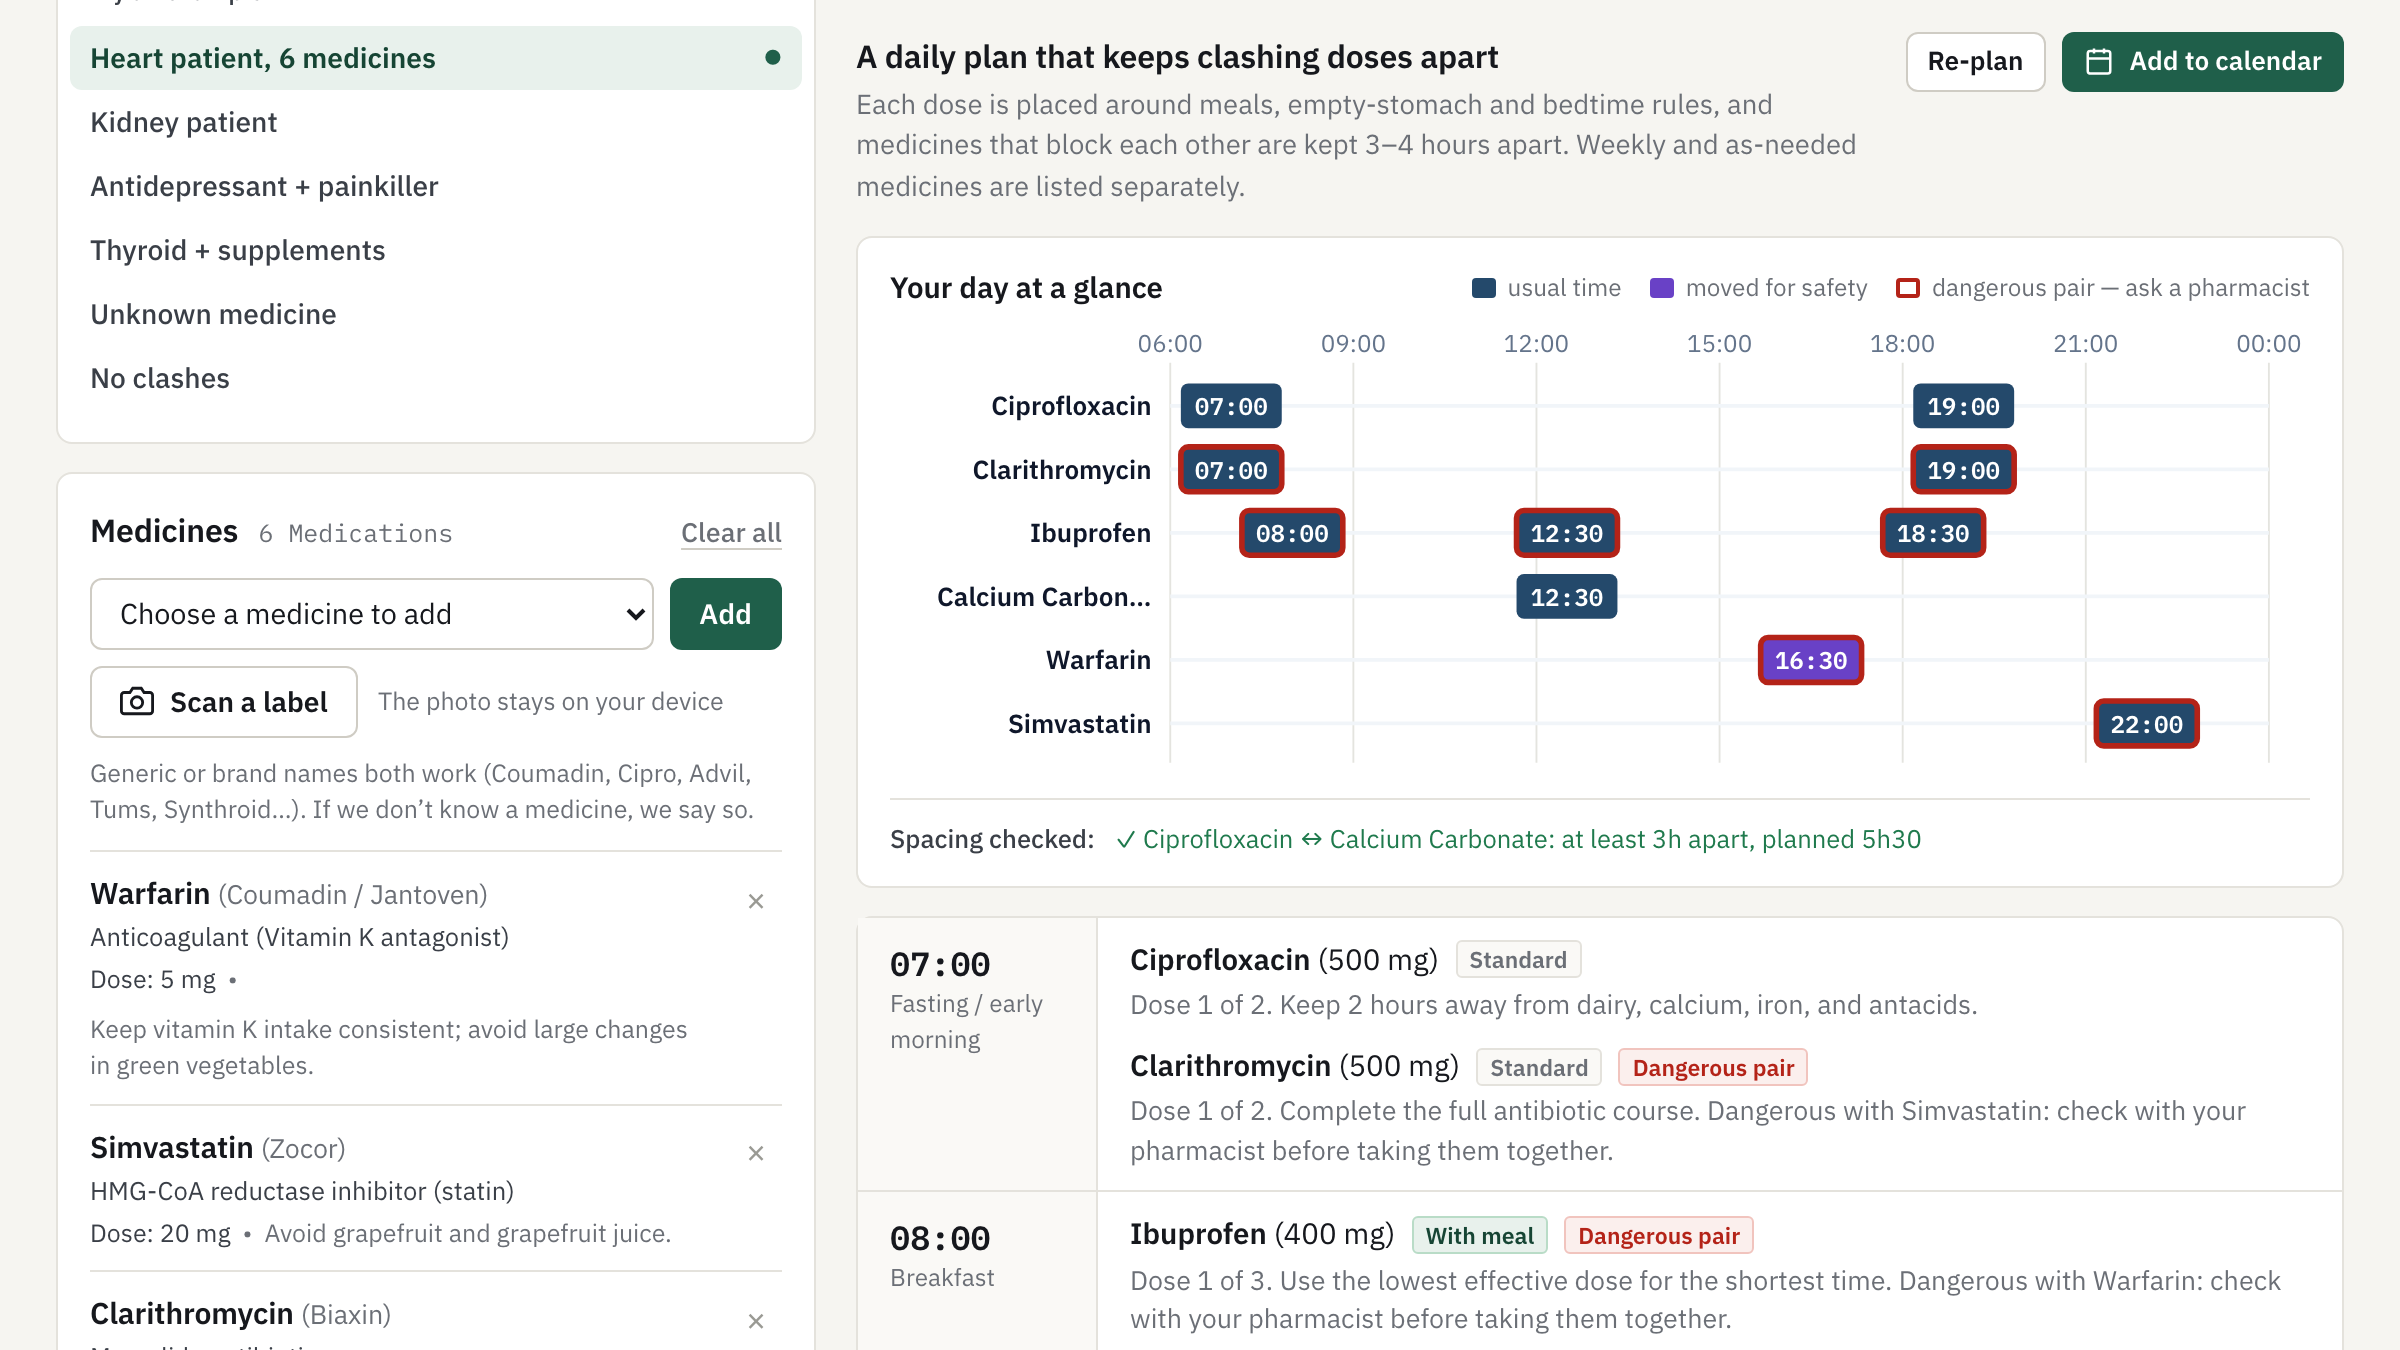
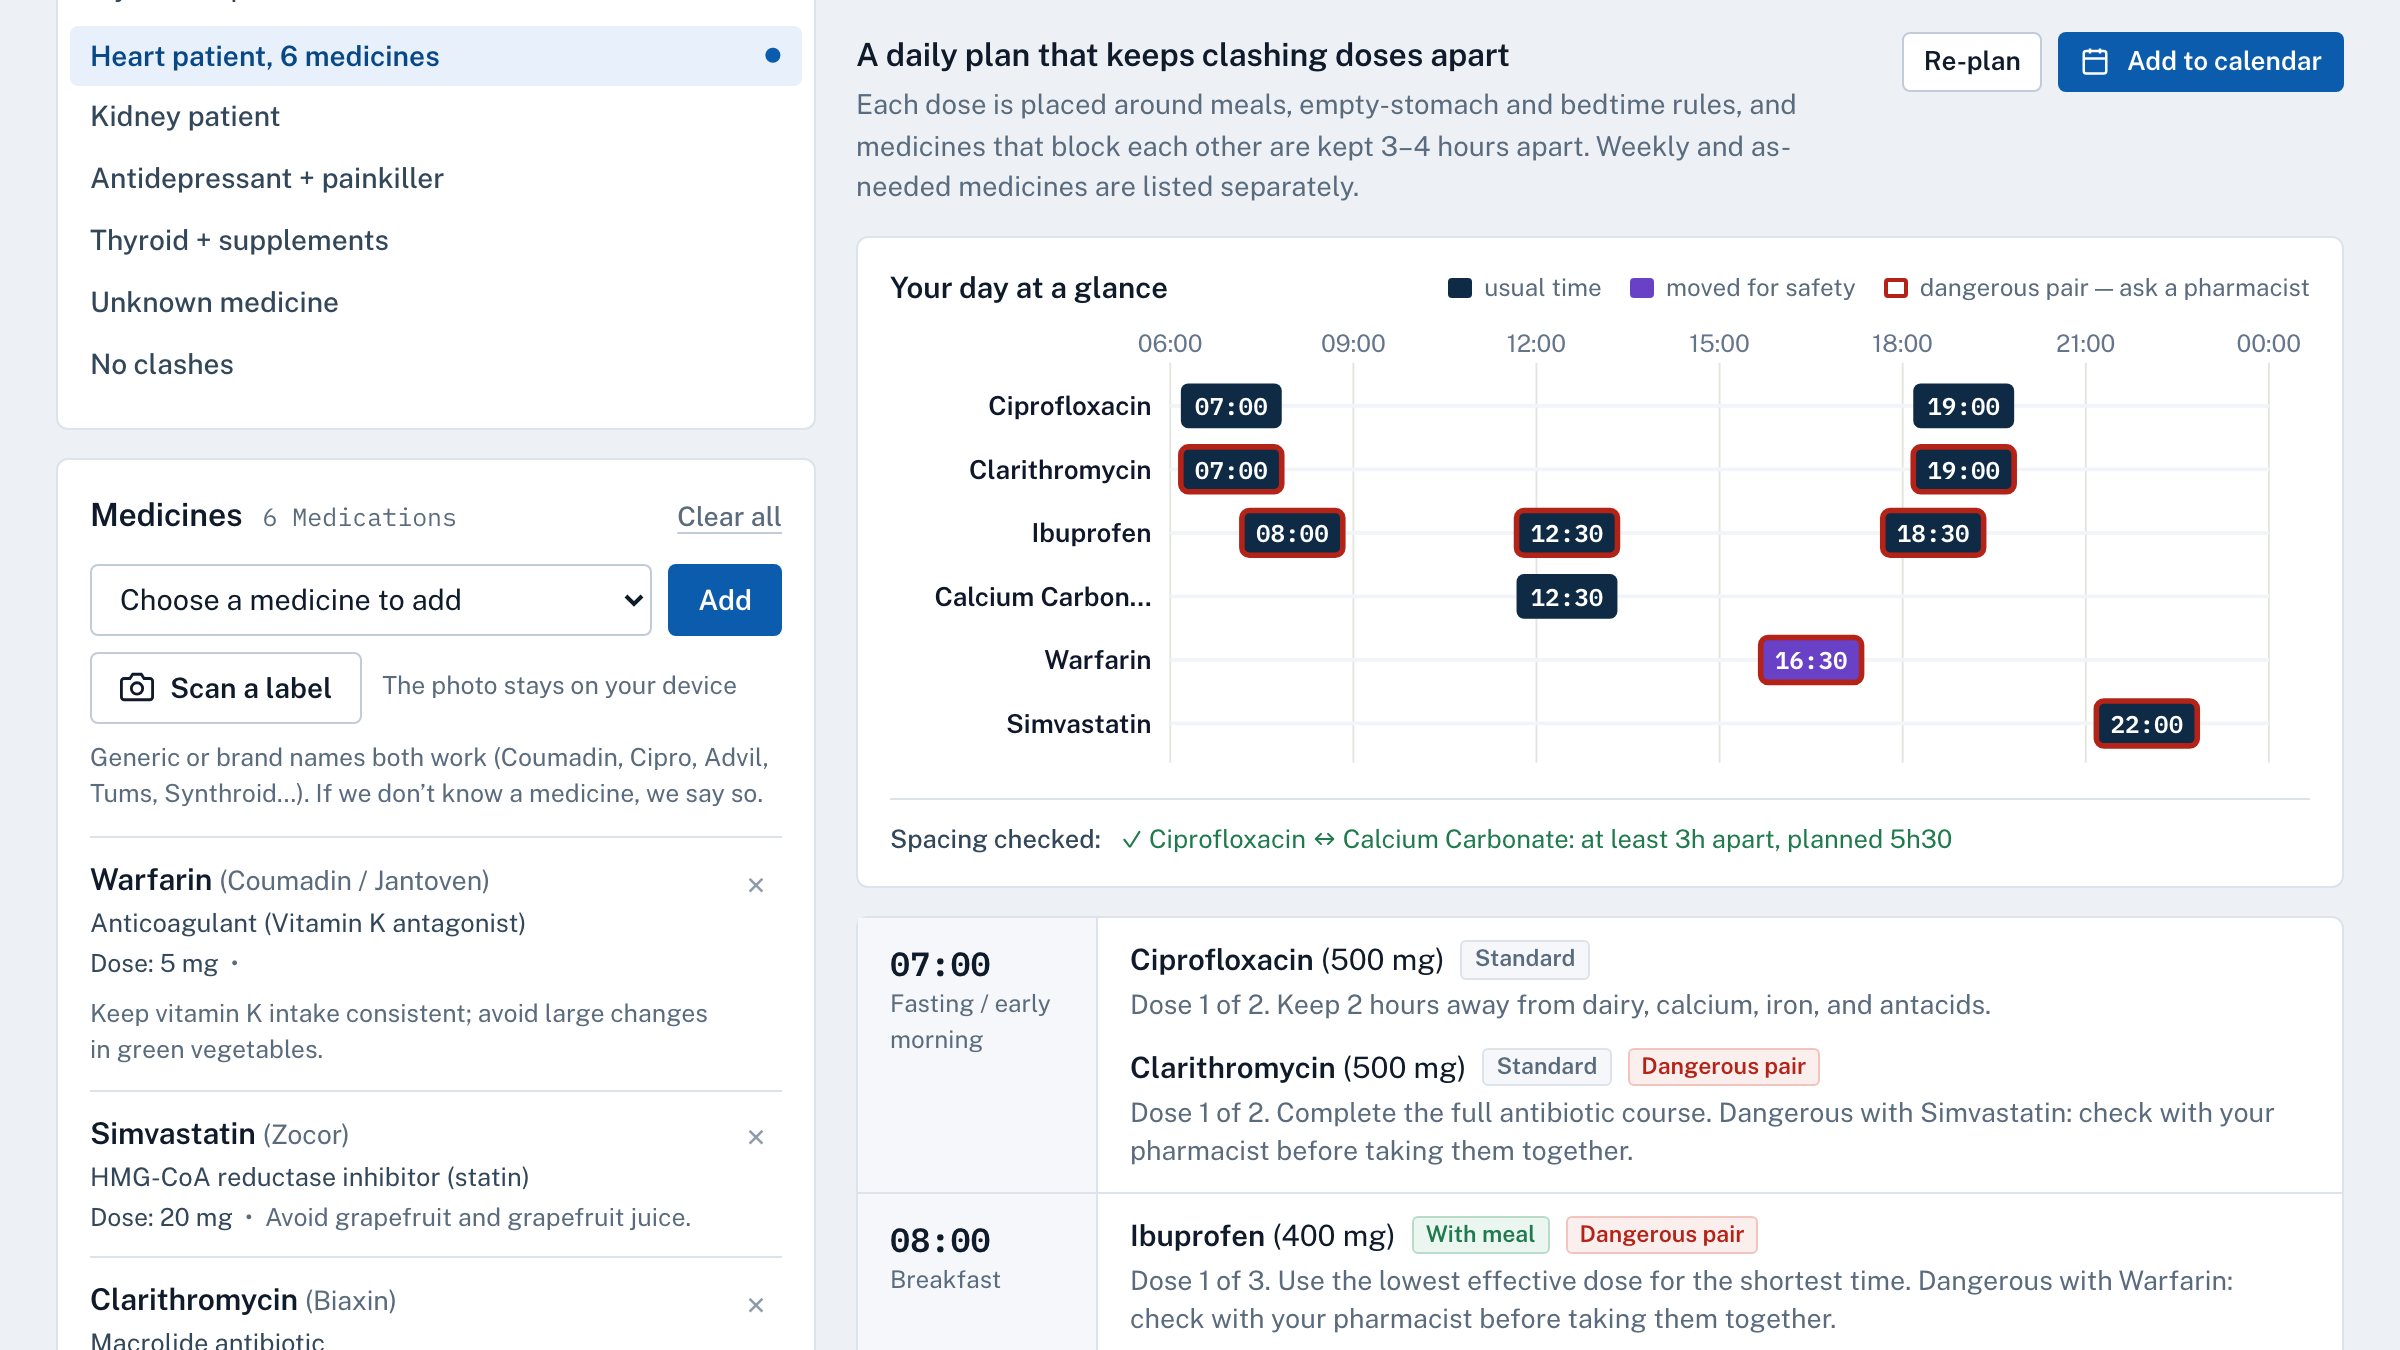
Retheme to clinical-system look: navy header, cool grey field, clinical blue, Public Sans

diff --git a/static/style.css b/static/style.css
@@ -1,25 +1,27 @@
 /* PharmaGuard — interface stylesheet
  *
- * A restrained clinical-document look: paper background, ink type, hairline
- * rules. Colour is reserved for meaning (danger, caution, moved, verified).
- * Type: IBM Plex Sans for UI, IBM Plex Serif for quoted label text, IBM Plex
+ * Clinical-system look: navy header bar, white panels on a cool grey field,
+ * clinical-blue actions. Colour is reserved for meaning (danger, caution,
+ * moved, verified). Type: Public Sans for UI and quoted label text, IBM Plex
  * Mono for times, doses and numbers.
  */
 
 :root {
-  --paper: #f6f5f1;
+  --paper: #edf1f5;
   --surface: #ffffff;
-  --sunken: #faf9f6;
-  --ink: #16181d;
-  --ink-2: #3a3f47;
-  --muted: #6b6f76;
-  --faint: #9a9a94;
-  --line: #e4e2dc;
-  --line-strong: #cfccc4;
+  --sunken: #f5f7fa;
+  --ink: #0f1b2a;
+  --ink-2: #33475b;
+  --muted: #5a6b7d;
+  --faint: #8e9bab;
+  --line: #dce3eb;
+  --line-strong: #c2ccd8;
 
-  --accent: #1f5f4a;
-  --accent-ink: #164534;
-  --accent-weak: #e8f1ec;
+  --accent: #0b5cad;
+  --navy: #0f2a44;
+  --navy-2: #173a5c;
+  --accent-ink: #084887;
+  --accent-weak: #e8f1fb;
 
   --danger: #b42318;
   --danger-weak: #fbefed;
@@ -34,14 +36,14 @@
   --moved-weak: #f3f0fb;
   --moved-line: #d3c7f2;
   --slate: #4b5563;
-  --slate-weak: #f0f0ee;
+  --slate-weak: #eef1f4;
 
-  --sans: "IBM Plex Sans", -apple-system, BlinkMacSystemFont, "Segoe UI", sans-serif;
-  --serif: "IBM Plex Serif", Georgia, "Times New Roman", serif;
+  --sans: "Public Sans", -apple-system, BlinkMacSystemFont, "Segoe UI", sans-serif;
+  --serif: var(--sans);
   --mono: "IBM Plex Mono", ui-monospace, "SFMono-Regular", Menlo, monospace;
 
-  --r: 6px;
-  --r-lg: 8px;
+  --r: 4px;
+  --r-lg: 6px;
 
   /* aliases used by older inline styles */
   --primary: var(--accent);
@@ -72,7 +74,7 @@ mark { background: #fbe7a1; color: inherit; padding: 0 2px; border-radius: 2px; 
 :focus-visible { outline: 2px solid var(--accent); outline-offset: 2px; }
 
 /* ------------------------------------------------------------------ header */
-.navbar { background: var(--surface); border-bottom: 1px solid var(--line); }
+.navbar { background: var(--navy); color: #fff; }
 .nav-container {
   max-width: 1400px; margin: 0 auto; padding: 14px 28px;
   display: flex; align-items: center; justify-content: space-between; gap: 24px;
@@ -80,34 +82,35 @@ mark { background: #fbe7a1; color: inherit; padding: 0 2px; border-radius: 2px; 
 .brand { display: flex; align-items: center; gap: 12px; min-width: 0; }
 .brand-icon {
   width: 34px; height: 34px; border-radius: var(--r); flex: 0 0 auto;
-  display: grid; place-items: center; background: var(--accent); color: #fff;
+  display: grid; place-items: center; background: #2f7fd6; color: #fff;
 }
 .brand-icon svg { width: 20px; height: 20px; }
 .brand-text { display: flex; align-items: baseline; gap: 14px; flex-wrap: wrap; min-width: 0; }
-.brand-title { font-size: 1.25rem; font-weight: 700; letter-spacing: -0.015em; }
-.brand-sub { color: var(--muted); font-size: 0.9rem; }
+.brand-title { font-size: 1.25rem; font-weight: 700; letter-spacing: -0.015em; color: #fff; }
+.brand-sub { color: #a8bcd1; font-size: 0.9rem; }
 .nav-actions { display: flex; align-items: center; gap: 16px; }
 .status-indicator {
   display: inline-flex; align-items: center; gap: 8px;
-  font-size: 0.82rem; color: var(--muted); white-space: nowrap;
+  font-size: 0.82rem; color: #a8bcd1; white-space: nowrap;
 }
-.status-dot { width: 7px; height: 7px; border-radius: 50%; background: var(--ok); }
+.status-dot { width: 7px; height: 7px; border-radius: 50%; background: #3fd18f; }
 
 .pipeline-strip {
-  list-style: none; max-width: 1400px; margin: 0 auto; padding: 0 28px 14px;
+  list-style: none; max-width: 1400px; margin: 0 auto; padding: 10px 28px 12px;
+  border-top: 1px solid rgb(255 255 255 / 0.09);
   display: flex; flex-wrap: wrap; gap: 6px 26px; counter-reset: step;
 }
-.pl-step, .pl-guard { display: flex; align-items: baseline; gap: 8px; font-size: 0.84rem; color: var(--muted); }
+.pl-step, .pl-guard { display: flex; align-items: baseline; gap: 8px; font-size: 0.84rem; color: #9fb3c8; }
 .pl-step div, .pl-guard div { display: flex; gap: 6px; flex-wrap: wrap; align-items: baseline; }
 .pl-num {
-  font-family: var(--mono); font-size: 0.75rem; color: var(--faint);
+  font-family: var(--mono); font-size: 0.75rem; color: #6f8aa6;
 }
 .pl-num::after { content: "."; }
-.pl-step strong, .pl-guard strong { color: var(--ink); font-weight: 600; }
-.pl-step span:not(.pl-num), .pl-guard span { color: var(--muted); }
-.pl-step b { font-family: var(--mono); font-weight: 500; color: var(--accent-ink); }
-.pl-guard { margin-left: auto; padding-left: 12px; border-left: 2px solid var(--danger); }
-.pl-guard strong { color: var(--danger); }
+.pl-step strong, .pl-guard strong { color: #fff; font-weight: 600; }
+.pl-step span:not(.pl-num), .pl-guard span { color: #9fb3c8; }
+.pl-step b { font-family: var(--mono); font-weight: 500; color: #8cc4ff; }
+.pl-guard { margin-left: auto; padding-left: 12px; border-left: 2px solid #ff6b5e; }
+.pl-guard strong { color: #ff9a90; }
 
 /* ------------------------------------------------------------------ buttons */
 .btn {
@@ -122,8 +125,8 @@ mark { background: #fbe7a1; color: inherit; padding: 0 2px; border-radius: 2px; 
 .btn-secondary { background: var(--surface); color: var(--ink); border-color: var(--line-strong); }
 .btn-secondary:hover:not(:disabled) { border-color: var(--ink-2); }
 .btn-sm { height: 30px; padding: 0 10px; font-size: 0.82rem; }
-.btn-sbar { background: var(--ink); color: #fff; }
-.btn-sbar:hover { background: #000; }
+.btn-sbar { background: #fff; color: var(--navy); }
+.btn-sbar:hover { background: #dbe8f6; }
 .btn-scan { background: var(--surface); color: var(--ink); border-color: var(--line-strong); }
 .btn-scan:hover { border-color: var(--ink-2); }
 .btn-audit { width: 100%; height: 42px; background: var(--accent); color: #fff; font-size: 0.94rem; }
@@ -222,7 +225,7 @@ mark { background: #fbe7a1; color: inherit; padding: 0 2px; border-radius: 2px; 
   border-radius: 3px; font: 600 0.66rem var(--mono); letter-spacing: 0.03em;
 }
 .unverified-pill { background: var(--slate-weak); color: var(--slate); border: 1px solid var(--line-strong); }
-.dose-source { background: var(--accent-weak); color: var(--accent-ink); }
+.dose-source { background: var(--ok-weak); color: var(--ok); }
 
 .unverified-panel {
   border-left: 2px solid var(--slate); padding: 8px 12px; margin-bottom: 14px; background: var(--sunken);
@@ -295,7 +298,7 @@ mark { background: #fbe7a1; color: inherit; padding: 0 2px; border-radius: 2px; 
 }
 .tab-btn svg { opacity: 0.7; }
 .tab-btn:hover { color: var(--ink); }
-.tab-btn.active { color: var(--ink); font-weight: 600; border-bottom-color: var(--ink); }
+.tab-btn.active { color: var(--accent); font-weight: 600; border-bottom-color: var(--accent); }
 #violations-count { font-family: var(--mono); }
 .tab-pane { display: none; }
 .tab-pane.active { display: block; }
@@ -356,8 +359,9 @@ mark { background: #fbe7a1; color: inherit; padding: 0 2px; border-radius: 2px; 
 .label-evidence.ev-none { display: flex; flex-wrap: wrap; gap: 4px 10px; align-items: baseline; }
 .label-evidence.ev-none .ev-badge { color: var(--muted); font-weight: 500; }
 .label-evidence blockquote {
-  margin: 10px 0 8px; padding: 2px 0 2px 16px; border-left: 2px solid var(--ok);
-  font-family: var(--serif); font-size: 1rem; line-height: 1.6; color: var(--ink);
+  margin: 10px 0 8px; padding: 10px 14px; border-left: 3px solid var(--ok);
+  background: var(--sunken); border-radius: 0 var(--r) var(--r) 0;
+  font-size: 0.94rem; line-height: 1.6; color: var(--ink);
 }
 .label-evidence.ev-class blockquote { border-left-color: var(--warn); }
 .label-evidence a { font-size: 0.82rem; font-weight: 500; text-underline-offset: 3px; }
@@ -408,8 +412,8 @@ mark { background: #fbe7a1; color: inherit; padding: 0 2px; border-radius: 2px; 
   font-size: 0.72rem; font-weight: 600; padding: 0 6px; border-radius: 3px; border: 1px solid var(--line);
   color: var(--muted); background: var(--sunken);
 }
-.dose-status.fasting { color: #24496b; border-color: #c9d6e3; background: #f1f5f9; }
-.dose-status.with_meal { color: var(--accent-ink); border-color: var(--ok-line); background: var(--accent-weak); }
+.dose-status.fasting { color: #0e6b74; border-color: #b9dfe2; background: #e8f5f6; }
+.dose-status.with_meal { color: var(--ok); border-color: var(--ok-line); background: var(--ok-weak); }
 .dose-status.rescheduled { color: var(--moved); border-color: var(--moved-line); background: var(--moved-weak); }
 .dose-critical { color: var(--danger); border-color: var(--danger-line); background: var(--danger-weak); }
 .slot-instruction { font-size: 0.84rem; color: var(--muted); line-height: 1.45; margin-top: 2px; }

diff --git a/static/app.js b/static/app.js
@@ -685,7 +685,7 @@ function renderInteractionGraph(result) {
     return `
       <g>
         <rect x="${pos.x - w / 2}" y="${pos.y - 16}" width="${w}" height="32" rx="4" fill="#ffffff" stroke="${stroke}" stroke-width="${severity ? 2 : 1}"></rect>
-        <text x="${pos.x}" y="${pos.y + 5}" text-anchor="middle" font-size="15" font-weight="600" fill="#16181d" font-family="IBM Plex Sans, sans-serif">${escapeHtml(label)}</text>
+        <text x="${pos.x}" y="${pos.y + 5}" text-anchor="middle" font-size="15" font-weight="600" fill="#0f1b2a" font-family="Public Sans, sans-serif">${escapeHtml(label)}</text>
         <title>${escapeHtml(drug.name)}</title>
       </g>
     `;
@@ -753,7 +753,7 @@ function renderDayRibbon(schedule) {
     const y = top + i * laneH + laneH / 2;
     const dots = doses.filter((d) => d.drug === drug).map((d) => {
       const moved = d.status === "rescheduled";
-      const fill = moved ? "#6941c6" : "#24496b";
+      const fill = moved ? "#6941c6" : "#0f2a44";
       const ring = d.critical_conflict ? `stroke="#b42318" stroke-width="3"` : "";
       return `<g><title>${escapeHtml(drug)} ${escapeHtml(d.time)}${moved ? " (moved by solver)" : ""}${d.critical_conflict ? " (critical conflict: needs review)" : ""}</title>
         <rect x="${x(d.minutes) - 27}" y="${y - 12}" width="54" height="24" rx="4" fill="${fill}" ${ring}/>
@@ -783,7 +783,7 @@ function renderDayRibbon(schedule) {
 
   host.innerHTML = `
     <div class="ribbon-head"><strong>Your day at a glance</strong>
-      <span class="ribbon-key"><i style="background:#24496b"></i>usual time <i style="background:#6941c6"></i>moved for safety <i class="ring"></i>dangerous pair — ask a pharmacist</span></div>
+      <span class="ribbon-key"><i style="background:#0f2a44"></i>usual time <i style="background:#6941c6"></i>moved for safety <i class="ring"></i>dangerous pair — ask a pharmacist</span></div>
     <svg viewBox="0 0 ${width} ${height}" role="img" aria-label="Daily dose times per medicine">${ticks.join("")}${lanes}</svg>
     ${chips ? `<div class="rule-chips"><span class="rule-chips-title">Spacing checked:</span>${chips}</div>` : ""}`;
 }

diff --git a/static/index.html b/static/index.html
@@ -8,7 +8,7 @@
   <link rel="stylesheet" href="style.css">
   <link rel="preconnect" href="https://fonts.googleapis.com">
   <link rel="preconnect" href="https://fonts.gstatic.com" crossorigin>
-  <link href="https://fonts.googleapis.com/css2?family=IBM+Plex+Sans:wght@400;500;600;700&family=IBM+Plex+Serif:ital,wght@0,400;0,500;1,400&family=IBM+Plex+Mono:wght@400;500;600&display=swap" rel="stylesheet">
+  <link href="https://fonts.googleapis.com/css2?family=Public+Sans:ital,wght@0,400;0,500;0,600;0,700;1,400&family=IBM+Plex+Mono:wght@400;500;600&display=swap" rel="stylesheet">
 </head>
 <body>
 
